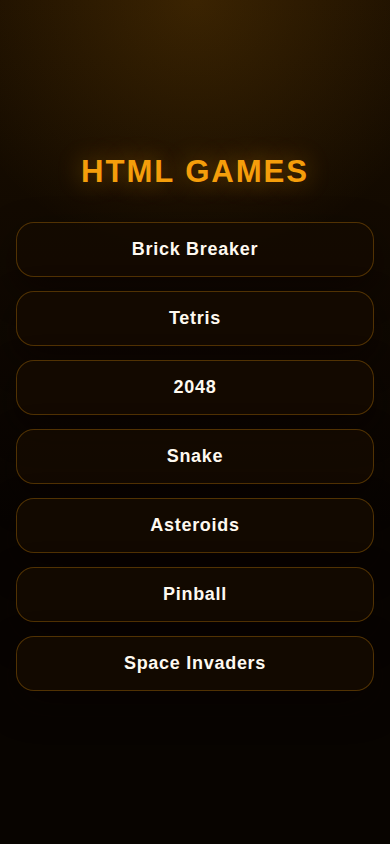
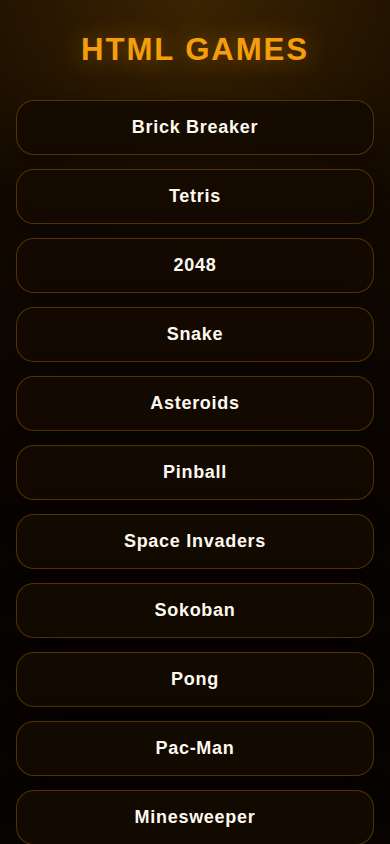
Fix root index test for 11 games; prevent arrow-key page scroll in 4 games
- tests/index.spec.js now asserts all 11 game links and subpaths
- Refresh stale root landing-page visual baselines (desktop + portrait)
- preventDefault on arrow keys in Asteroids, Pong, Snake, Tetris so the
  page never scrolls during play

https://claude.ai/code/session_011DTQjV2gQoZknWJRjidp37

diff --git a/tests/index.spec.js b/tests/index.spec.js
@@ -7,7 +7,7 @@ test.beforeEach(async ({ page }) => {
 test('landing page lists all games', async ({ page }) => {
   await expect(page.locator('h1')).toContainText('HTML Games');
   const links = page.locator('ul li a');
-  await expect(links).toHaveCount(7);
+  await expect(links).toHaveCount(11);
   await expect(links.nth(0)).toHaveText('Brick Breaker');
   await expect(links.nth(1)).toHaveText('Tetris');
   await expect(links.nth(2)).toHaveText('2048');
@@ -15,6 +15,10 @@ test('landing page lists all games', async ({ page }) => {
   await expect(links.nth(4)).toHaveText('Asteroids');
   await expect(links.nth(5)).toHaveText('Pinball');
   await expect(links.nth(6)).toHaveText('Space Invaders');
+  await expect(links.nth(7)).toHaveText('Sokoban');
+  await expect(links.nth(8)).toHaveText('Pong');
+  await expect(links.nth(9)).toHaveText('Pac-Man');
+  await expect(links.nth(10)).toHaveText('Minesweeper');
 });
 
 test('game links point to correct subpaths', async ({ page }) => {
@@ -25,6 +29,10 @@ test('game links point to correct subpaths', async ({ page }) => {
   await expect(page.locator('a[href="./asteroids/"]')).toBeVisible();
   await expect(page.locator('a[href="./pinball/"]')).toBeVisible();
   await expect(page.locator('a[href="./space-invaders/"]')).toBeVisible();
+  await expect(page.locator('a[href="./sokoban/"]')).toBeVisible();
+  await expect(page.locator('a[href="./pong/"]')).toBeVisible();
+  await expect(page.locator('a[href="./pacman/"]')).toBeVisible();
+  await expect(page.locator('a[href="./minesweeper/"]')).toBeVisible();
 });
 
 test('landing page visual screenshot', async ({ page }) => {

diff --git a/snake/src/game.js b/snake/src/game.js
@@ -214,6 +214,9 @@
   }
 
   function onKeyDown(event) {
+    if (event.key === 'ArrowUp' || event.key === 'ArrowDown' || event.key === 'ArrowLeft' || event.key === 'ArrowRight') {
+      event.preventDefault();
+    }
     if (event.key === 'r' || event.key === 'R') {
       restartGame();
       return;

diff --git a/tetris/src/game.js b/tetris/src/game.js
@@ -688,6 +688,9 @@
   }
 
   function onKeyDown(event) {
+    if (event.key === 'ArrowUp' || event.key === 'ArrowDown' || event.key === 'ArrowLeft' || event.key === 'ArrowRight') {
+      event.preventDefault();
+    }
     if (event.key === 'r' || event.key === 'R') {
       restartGame();
       return;

diff --git a/asteroids/src/game.js b/asteroids/src/game.js
@@ -393,7 +393,7 @@
   // ── Controls ──────────────────────────────────────────────────────────────
   document.addEventListener('keydown', (e) => {
     keys[e.code] = true;
-    if (e.code === 'Space') e.preventDefault();
+    if (e.code === 'Space' || e.code === 'ArrowUp' || e.code === 'ArrowDown' || e.code === 'ArrowLeft' || e.code === 'ArrowRight') e.preventDefault();
     if (e.code === 'KeyR' && state.status === 'gameOver') {
       restart();
     }

diff --git a/pong/src/game.js b/pong/src/game.js
@@ -278,6 +278,7 @@
 
   // Keyboard controls
   document.addEventListener('keydown', function (e) {
+    if (e.key === 'ArrowUp' || e.key === 'ArrowDown') e.preventDefault();
     if (e.key === 'ArrowUp' || e.key === 'w' || e.key === 'W') keys.up = true;
     if (e.key === 'ArrowDown' || e.key === 's' || e.key === 'S') keys.down = true;
   });